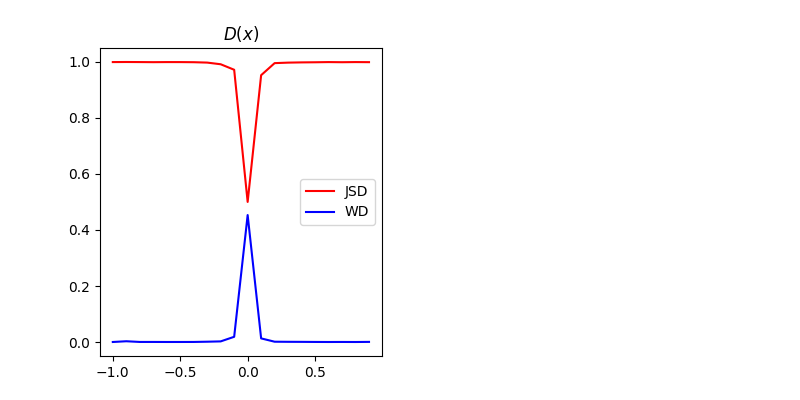
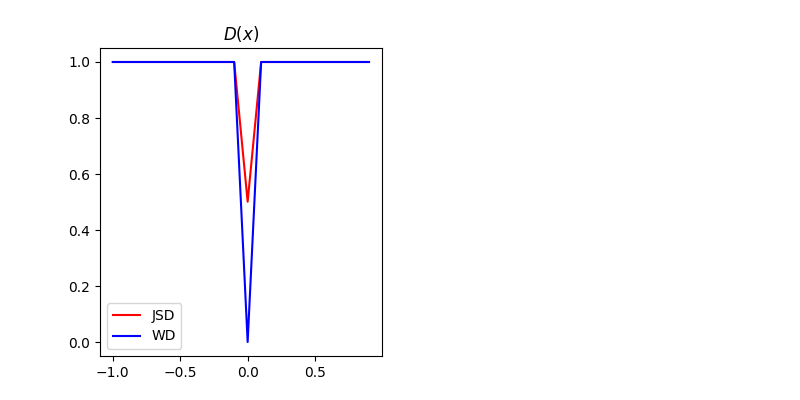
Add figures

diff --git a/assignment3/density_estimation.py b/assignment3/density_estimation.py
@@ -30,6 +30,8 @@ N = lambda x: np.exp(-x**2/2.)/((2*np.pi)**0.5)
 plt.plot(f(torch.from_numpy(xx)).numpy(), d(torch.from_numpy(xx)).numpy()**(-1)*N(xx))
 plt.plot(xx, N(xx))
 
+plt.savefig('q1_distributions.png')
+
 ############### import the sampler ``samplers.distribution4''
 ############### train a discriminator on distribution4 and standard gaussian
 ############### estimate the density of distribution4
@@ -92,94 +94,89 @@ class MLP(nn.Module):
 
         return x
 
-num_epochs = 255
+num_epochs = 5000
 batch_size = 512
-epoch_size = 250
 dim = 2
-
-estimate = True
 
 jsd_output = []
 wd_output = []
 
 thetas = np.arange(-1.0, 1.0, 0.1)
 
-if not estimate:
-    for i, theta in enumerate(thetas):
-        jsd_discr = MLP([dim, 15, 15, 1])
-        wd_discr = MLP([dim, 15, 15, 1])
+for i, theta in enumerate(thetas):
+    jsd_discr = MLP([dim, 182, 182, 1])
+    wd_discr = MLP([dim, 182, 182, 1])
 
-        jsd_optimizer = optim.SGD(jsd_discr.parameters(), lr=1e-3, momentum=0.9)
-        wd_optimizer = optim.SGD(wd_discr.parameters(), lr=1e-3, momentum=0.9)
+    #  jsd_optimizer = optim.SGD(jsd_discr.parameters(), lr=1e-3, momentum=0.9)
+    jsd_optimizer = optim.Adam(jsd_discr.parameters(), lr=1e-3)
+    #  wd_optimizer = optim.SGD(wd_discr.parameters(), lr=1e-3, momentum=0.9)
+    wd_optimizer = optim.Adam(wd_discr.parameters(), lr=1e-3)
 
-        jsd_criterion = JSDLoss()
-        wd_criterion = WDLoss(15)
+    jsd_criterion = JSDLoss()
+    wd_criterion = WDLoss(15)
 
-        print('[theta %d] training of delimiting functions started...' % (i))
+    print('[theta %d] training of delimiting functions started...' % (i))
 
-        for epoch in range(num_epochs):
-            jsd_running_loss = 0.0
-            wd_running_loss = 0.0
+    for epoch in range(num_epochs):
+        jsd_running_loss = 0.0
+        wd_running_loss = 0.0
 
-            for i, (p_batch, q_batch) in enumerate(zip(distribution1(0, batch_size), distribution1(theta, batch_size))):
-                if i == epoch_size:
-                    break
-
-                jsd_optimizer.zero_grad()
-                wd_optimizer.zero_grad()
-
-                p_batch = torch.from_numpy(p_batch).type(torch.FloatTensor)
-                q_batch = torch.from_numpy(q_batch).type(torch.FloatTensor)
-
-                u_d = torch.from_numpy(np.random.uniform(0, 1, (batch_size, dim))).type(torch.FloatTensor)
-                z_batch = u_d*p_batch + (1 - u_d)*q_batch
-                z_batch.requires_grad = True
-
-                jsd_p_o, jsd_q_o = (jsd_discr(batch) for batch in [p_batch, q_batch])
-                wd_p_o, wd_q_o, wd_z_o = (wd_discr(batch) for batch in [p_batch, q_batch, z_batch])
-
-                wd_z_o_grad = grad(wd_z_o.sum(), z_batch)[0]
-
-                jsd_loss = jsd_criterion(jsd_p_o, jsd_q_o)
-                jsd_loss.backward()
-
-                wd_loss = wd_criterion(wd_p_o, wd_q_o, wd_z_o_grad)
-                wd_loss.backward()
-
-                jsd_optimizer.step()
-                wd_optimizer.step()
-
-                wd_running_loss += wd_loss.item()
-                jsd_running_loss += jsd_loss.item()
-                if i % epoch_size == 0:
-                    print('[%s][%d, %d] loss: %.6f' %
-                        ('JSD', epoch + 1, i + 1, jsd_running_loss / epoch_size))
-                    print('[%s][%d, %d] loss: %.6f' %
-                        ('WD', epoch + 1, i + 1, wd_running_loss / epoch_size))
-
-                    jsd_running_loss = 0.0
-                    wd_running_loss = 0.0
-
-        print('[theta %d] training of delimiting functions completed.' % (i))
-
-        p_batch, q_batch =  next(zip(distribution1(0, batch_size), distribution1(theta, batch_size)))
+        p_batch, q_batch  = next(zip(distribution1(0, batch_size), distribution1(theta, batch_size)))
+        jsd_optimizer.zero_grad()
+        wd_optimizer.zero_grad()
 
         p_batch = torch.from_numpy(p_batch).type(torch.FloatTensor)
         q_batch = torch.from_numpy(q_batch).type(torch.FloatTensor)
 
-        jsd_output.append(jsd_discr(p_batch).mean())
-        wd_output.append(wd_discr(p_batch).mean())
+        u_d = torch.from_numpy(np.random.uniform(0, 1, (batch_size, dim))).type(torch.FloatTensor)
+        z_batch = u_d*p_batch + (1 - u_d)*q_batch
+        z_batch.requires_grad = True
+
+        jsd_p_o, jsd_q_o = (jsd_discr(batch) for batch in [p_batch, q_batch])
+        wd_p_o, wd_q_o, wd_z_o = (wd_discr(batch) for batch in [p_batch, q_batch, z_batch])
+
+        wd_z_o_grad = grad(wd_z_o.sum(), z_batch)[0]
+
+        jsd_loss = jsd_criterion(jsd_p_o, jsd_q_o)
+        jsd_loss.backward()
+
+        wd_loss = wd_criterion(wd_p_o, wd_q_o, wd_z_o_grad)
+        wd_loss.backward()
+
+        jsd_optimizer.step()
+        wd_optimizer.step()
+
+        wd_running_loss += wd_loss.item()
+        jsd_running_loss += jsd_loss.item()
+
+        print('[%s][%d, %d] loss: %.6f' %
+            ('JSD', epoch + 1, i + 1, jsd_running_loss))
+        print('[%s][%d, %d] loss: %.6f' %
+            ('WD', epoch + 1, i + 1, wd_running_loss))
+
+        jsd_running_loss = 0.0
+        wd_running_loss = 0.0
+
+    print('[theta %d] training of delimiting functions completed.' % (i))
+
+    p_batch, q_batch =  next(zip(distribution1(0, batch_size), distribution1(theta, batch_size)))
+
+    p_batch = torch.from_numpy(p_batch).type(torch.FloatTensor)
+    q_batch = torch.from_numpy(q_batch).type(torch.FloatTensor)
+
+    jsd_output.append(jsd_discr(p_batch).mean())
+    wd_output.append(wd_discr(p_batch).mean())
 
 
-    plt.figure(figsize=(8,4))
-    plt.subplot(1,2,1)
-    plt.plot(thetas, jsd_output, 'r')
-    plt.plot(thetas, wd_output, 'b')
-    plt.legend(['JSD', 'WD'])
-    plt.title(r'$D(x)$')
-    plt.savefig('q1_3.png')
+plt.figure(figsize=(8,4))
+plt.subplot(1,2,1)
+plt.plot(thetas, jsd_output, 'r')
+plt.plot(thetas, wd_output, 'b')
+plt.legend(['JSD', 'WD'])
+plt.title(r'$D(x)$')
+plt.savefig('q1_3.png')
 
-num_epochs = 20
+num_epochs = 5000
 discr = MLP([1, 182, 182, 1])
 
 optimizer = optim.Adam(discr.parameters(), lr=1e-3)
@@ -190,27 +187,23 @@ print('training q4 discriminator started...')
 for epoch in range(num_epochs):
     running_loss = 0.0
 
-    for i, (p_batch, q_batch) in enumerate(zip(distribution4(batch_size), distribution3(batch_size))):
-        if i == epoch_size:
-            break
+    p_batch, q_batch = next(zip(distribution4(batch_size), distribution3(batch_size)))
+    optimizer.zero_grad()
 
-        optimizer.zero_grad()
+    p_batch = torch.from_numpy(p_batch).type(torch.FloatTensor)
+    q_batch = torch.from_numpy(q_batch).type(torch.FloatTensor)
 
-        p_batch = torch.from_numpy(p_batch).type(torch.FloatTensor)
-        q_batch = torch.from_numpy(q_batch).type(torch.FloatTensor)
+    p_o, q_o = (discr(batch) for batch in [p_batch, q_batch])
+    loss = criterion(p_o, q_o)
+    loss.backward()
 
-        p_o, q_o = (discr(batch) for batch in [p_batch, q_batch])
-        loss = criterion(p_o, q_o)
-        loss.backward()
+    optimizer.step()
 
-        optimizer.step()
+    running_loss += loss.item()
+    print('[%d] loss: %.6f' %
+            (epoch + 1, running_loss))
 
-        running_loss += loss.item()
-        if i % epoch_size == 0:
-            print('[%d, %d] loss: %.6f' %
-                 (epoch + 1, i + 1, running_loss / epoch_size))
-
-            running_loss = 0
+    running_loss = 0
 
 print('training q4 discriminator completed.')
 
@@ -225,5 +218,6 @@ plt.plot(xx, estimate)
 plt.plot(f(torch.from_numpy(xx)).numpy(), d(torch.from_numpy(xx)).numpy()**(-1)*N(xx))
 plt.legend(['Estimated','True'])
 plt.title('Estimated vs True')
+plt.savefig('q1_4.png')
 
 plt.show()
